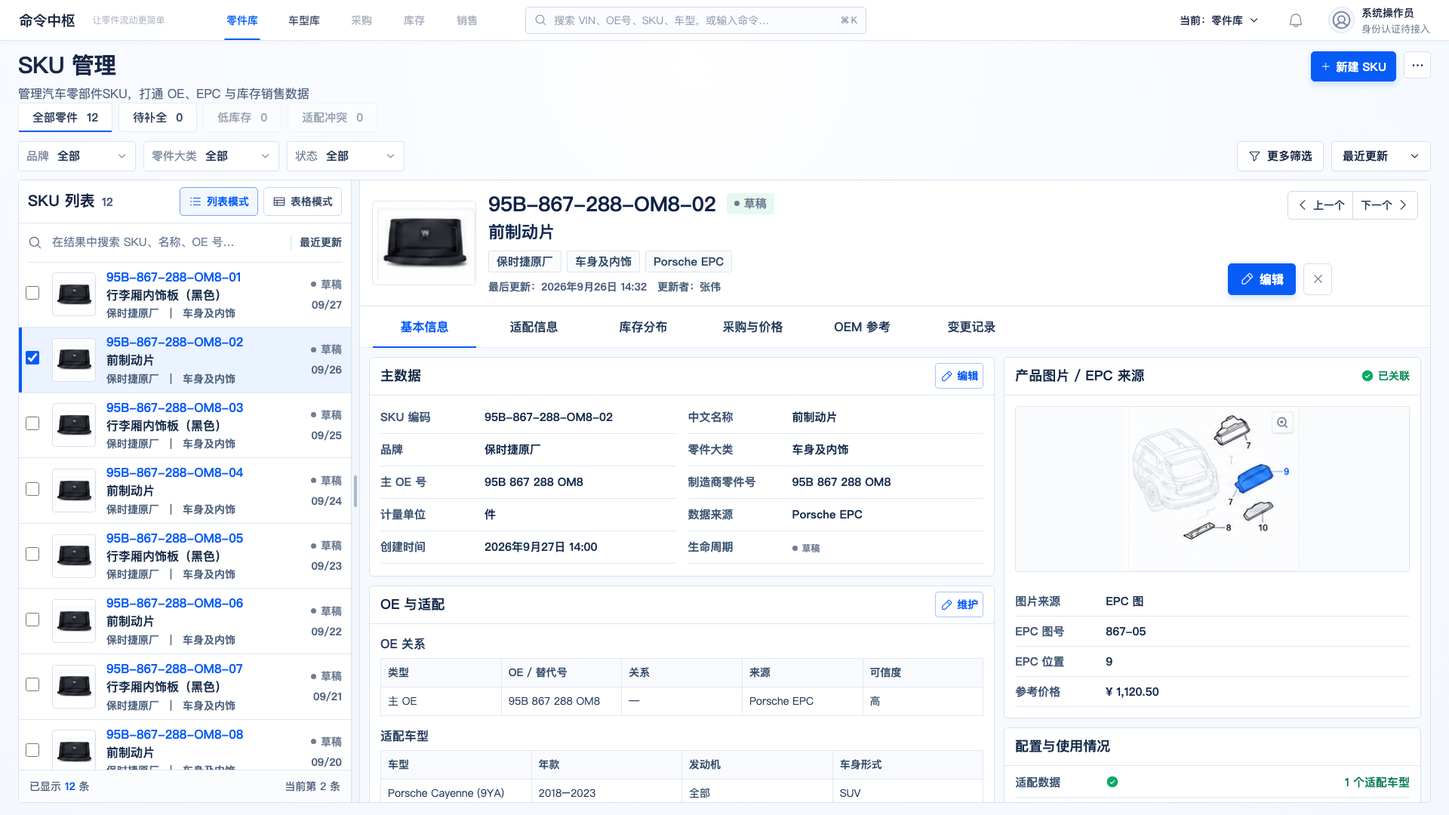
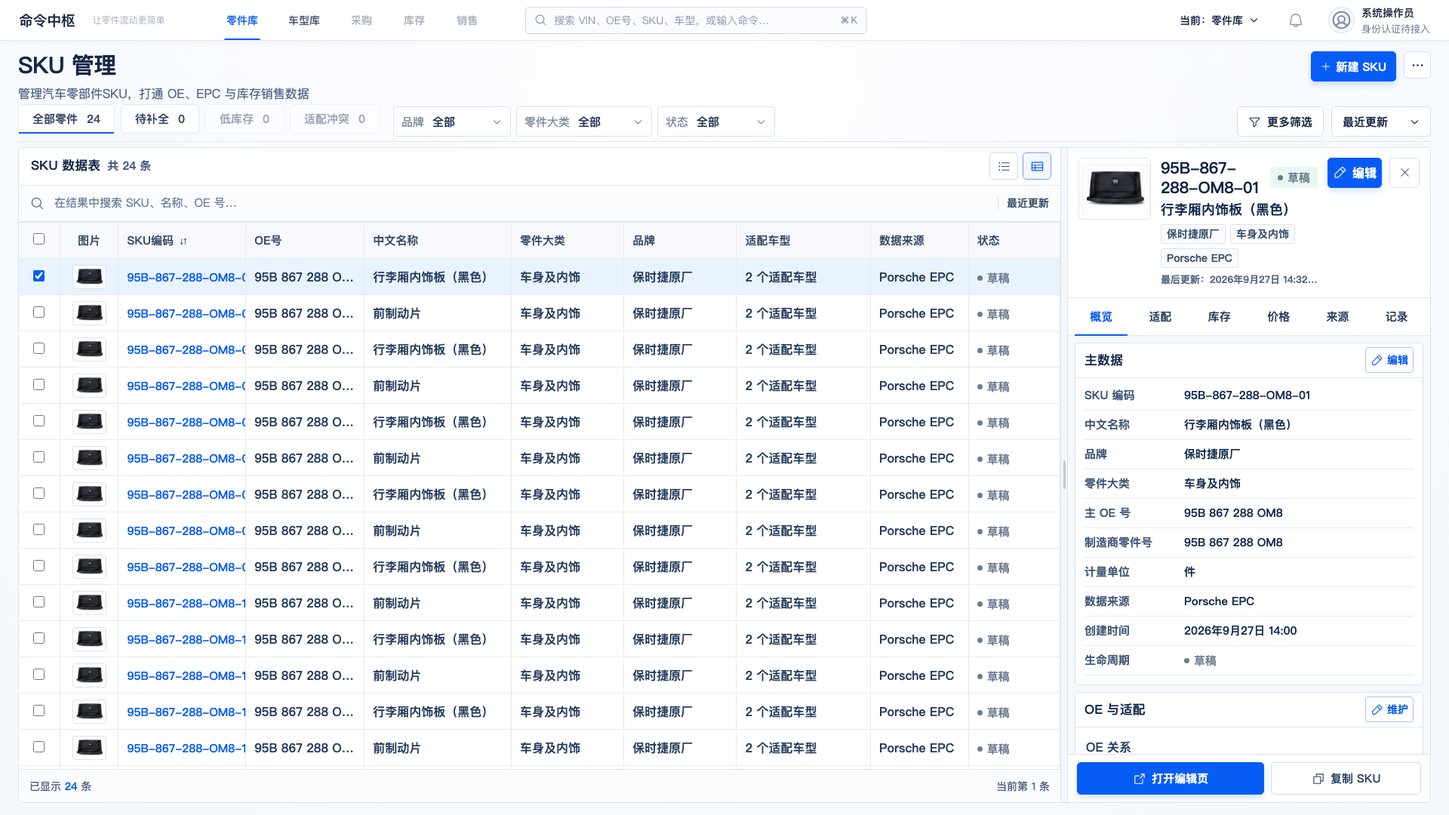
feat: refactor SKU workspace to option two

diff --git a/apps/web/src/styles.css b/apps/web/src/styles.css
@@ -226,6 +226,11 @@ button { color: inherit; }
 .sku-management-workspace .sort-button { min-width: 132px; }
 .sku-management-workspace .filter-popover label, .sku-management-workspace .filter-popover footer button, .sku-management-workspace .sort-popover button { font-size: 14px; }
 .sku-management-workspace .sort-popover button { height: 38px; }
+.sku-filter-strip { min-height: 52px; flex: 0 0 auto; display: grid; grid-template-columns: auto minmax(0, 1fr); align-items: center; gap: 18px; border-bottom: 1px solid #dfe7f1; }
+.sku-filter-strip .summary-tabs { border-bottom: 0; }
+.sku-filter-strip .filters-row { min-width: 0; height: 48px; margin: 0; }
+.sku-filter-strip .filters-left { gap: 7px; }
+.sku-filter-strip .filters-right { margin-left: auto; }
 .app-shell:has(.sku-management-workspace) .global-search > span:nth-child(2), .app-shell:has(.sku-management-workspace) .current-space { font-size: 14px; }
 .app-shell:has(.sku-management-workspace) .user-profile small { color: #64738c; font-size: 13px; }
 
@@ -335,6 +340,73 @@ button { color: inherit; }
 .sku-browser-workspace.table-view .sku-table thead { position: sticky; top: 0; z-index: 2; }
 .sku-browser-workspace.table-view .sku-table thead th, .sku-browser-workspace.table-view .sku-table .sku-col .row-link, .sku-browser-workspace.table-view .status-badge { font-size: 14px; }
 
+/* Option 2: table-first workspace with a persistent right inspector. */
+.sku-browser-workspace.table-view { grid-template-columns: minmax(0, 1fr) 10px 480px; }
+.sku-browser-workspace.table-view.detail-collapsed { grid-template-columns: minmax(0, 1fr) 52px; }
+.sku-browser-workspace.table-view .sku-master-pane { grid-template-rows: 50px 48px minmax(0, 1fr) 44px; }
+.sku-browser-workspace.table-view .sku-master-toolbar { min-height: 50px; padding: 6px 12px 6px 16px; }
+.sku-browser-workspace.table-view .sku-master-title h2 { font-size: 17px; }
+.sku-browser-workspace.table-view .sku-master-title span { font-size: 15px; }
+.sku-browser-workspace.table-view .sku-view-switch { gap: 6px; }
+.sku-browser-workspace.table-view .sku-view-switch button { width: 38px; height: 36px; padding: 0; justify-content: center; }
+.sku-browser-workspace.table-view .sku-result-search { height: 48px; margin: 0; padding: 0 15px; background: #fbfcfe; }
+.sku-browser-workspace.table-view .sku-master-scroll { border-top: 1px solid #dfe7f1; }
+.sku-browser-workspace.table-view .sku-master-pane .sku-table-shell { min-width: 1240px; min-height: 100%; height: auto; }
+.sku-browser-workspace.table-view .sku-table { min-width: 1240px; color: #263c5c; font-size: 15px; }
+.sku-browser-workspace.table-view .sku-table th,
+.sku-browser-workspace.table-view .sku-table td { height: 48px; padding-right: 11px; padding-left: 11px; }
+.sku-browser-workspace.table-view .sku-table thead th,
+.sku-browser-workspace.table-view .sku-table .sku-col .row-link,
+.sku-browser-workspace.table-view .status-badge { font-size: 15px; }
+.sku-browser-workspace.table-view .sku-table th { color: #334965; background: #f7f9fc; font-weight: 700; }
+.sku-browser-workspace.table-view .sku-table td { font-size: 16px; font-weight: 540; }
+.sku-browser-workspace.table-view .sku-table .stock-col,
+.sku-browser-workspace.table-view .sku-table .price-col,
+.sku-browser-workspace.table-view .sku-table .action-col { display: none; }
+.sku-browser-workspace.table-view .sku-table .check-col { width: 50px; }
+.sku-browser-workspace.table-view .sku-table .image-col { width: 72px; }
+.sku-browser-workspace.table-view .sku-table .sku-col { width: 156px; }
+.sku-browser-workspace.table-view .sku-table .oe-col { width: 145px; }
+.sku-browser-workspace.table-view .sku-table .name-col { width: 180px; }
+.sku-browser-workspace.table-view .sku-table .category-col { width: 138px; }
+.sku-browser-workspace.table-view .sku-table .brand-col { width: 138px; }
+.sku-browser-workspace.table-view .sku-table .vehicle-col { width: 164px; }
+.sku-browser-workspace.table-view .sku-table .source-col { width: 120px; }
+.sku-browser-workspace.table-view .sku-table .status-col { width: 112px; }
+.sku-browser-workspace.table-view .sku-pane-resizer { width: 10px; cursor: default; }
+.sku-browser-workspace.table-view .sku-pane-resizer span { width: 3px; height: 38px; background: #c0cad8; }
+
+.sku-browser-workspace.table-view .sku-detail-workspace { grid-template-rows: auto 50px minmax(0, 1fr) 64px; background: #f5f8fc; }
+.sku-browser-workspace.table-view .sku-detail-identity { min-height: 130px; padding: 13px 14px; grid-template-columns: 96px minmax(0, 1fr) 122px; gap: 13px; align-items: start; }
+.sku-browser-workspace.table-view .sku-detail-identity .part-preview { width: 96px; height: 82px; }
+.sku-browser-workspace.table-view .sku-detail-identity .part-title h2 { font-size: 21px; }
+.sku-browser-workspace.table-view .sku-detail-identity .part-title p { margin: 4px 0 7px; font-size: 18px; }
+.sku-browser-workspace.table-view .sku-detail-identity .chips { gap: 6px; }
+.sku-browser-workspace.table-view .sku-detail-identity .chips span { min-height: 26px; padding: 2px 7px; font-size: 14px; }
+.sku-browser-workspace.table-view .sku-detail-identity .part-title > small { margin-top: 6px; overflow: hidden; font-size: 13px; text-overflow: ellipsis; white-space: nowrap; }
+.sku-browser-workspace.table-view .sku-detail-actions { grid-template-columns: 72px 40px; align-content: start; }
+.sku-browser-workspace.table-view .sku-detail-step { display: none; }
+.sku-browser-workspace.table-view .sku-detail-actions > .primary-button { width: 72px; height: 40px; padding: 0; grid-column: 1; display: inline-flex; }
+.sku-browser-workspace.table-view .sku-detail-actions > .icon-button { width: 40px; height: 40px; }
+.sku-browser-workspace.table-view .sku-detail-workspace > .detail-tabs { height: 50px; padding: 0 5px; }
+.sku-browser-workspace.table-view .sku-detail-workspace > .detail-tabs button { min-width: 0; flex: 1; padding: 0 3px; font-size: 15px; }
+.sku-browser-workspace.table-view .sku-detail-overview { padding: 9px; grid-template-columns: 1fr; gap: 9px; }
+.sku-browser-workspace.table-view .sku-detail-main-column,
+.sku-browser-workspace.table-view .sku-detail-side-column { gap: 9px; }
+.sku-browser-workspace.table-view .sku-detail-section > header { min-height: 46px; padding: 0 12px; }
+.sku-browser-workspace.table-view .sku-detail-section > header h3 { font-size: 17px; }
+.sku-browser-workspace.table-view .sku-detail-workspace .detail-facts { padding: 4px 12px 12px; grid-template-columns: 1fr; font-size: 15px; }
+.sku-browser-workspace.table-view .sku-detail-workspace .detail-facts div { min-height: 39px; grid-template-columns: 132px minmax(0, 1fr); }
+.sku-browser-workspace.table-view .sku-source-section img,
+.sku-browser-workspace.table-view .sku-source-section .source-image-empty { height: 190px; }
+.sku-browser-workspace.table-view .sku-detail-workspace .mini-table { min-width: 620px; font-size: 15px; }
+.sku-browser-workspace.table-view .sku-detail-section { overflow-x: auto; }
+.sku-browser-workspace.table-view .sku-inspector-footer { min-height: 64px; padding: 10px 12px; display: grid; grid-template-columns: minmax(0, 1fr) minmax(132px, .8fr); gap: 9px; border-top: 1px solid #d7e1ee; background: #fff; }
+.sku-inspector-footer { display: none; }
+.sku-inspector-footer button { min-width: 0; height: 43px; padding: 0 11px; display: inline-flex; align-items: center; justify-content: center; gap: 7px; color: #2b4263; border: 1px solid #cfdbea; border-radius: 5px; background: #fff; font-size: 15px; font-weight: 650; cursor: pointer; white-space: nowrap; }
+.sku-inspector-footer .primary-button { color: #fff; border-color: var(--blue); background: var(--blue); }
+.sku-browser-workspace.table-view.detail-collapsed .reopen-detail { width: 52px; height: 100%; margin: 0; padding: 15px 0; border-width: 0 0 0 1px; border-radius: 0; writing-mode: vertical-rl; }
+
 @media (max-width: 1500px) {
   .sku-management-workspace { padding-right: 16px; padding-left: 16px; }
   .sku-browser-workspace { --sku-master-width: 390px !important; }
@@ -343,6 +415,11 @@ button { color: inherit; }
   .sku-detail-identity .part-preview { width: 112px; height: 98px; }
   .sku-detail-identity .part-title h2 { font-size: 23px; }
   .sku-detail-identity .part-title p { font-size: 19px; }
+  .sku-filter-strip { grid-template-columns: 1fr; gap: 0; }
+  .sku-filter-strip .summary-tabs { overflow-x: auto; }
+  .sku-browser-workspace.table-view { grid-template-columns: minmax(0, 1fr) 10px 420px; }
+  .sku-browser-workspace.table-view .sku-detail-identity { grid-template-columns: 82px minmax(0, 1fr) 122px; }
+  .sku-browser-workspace.table-view .sku-detail-identity .part-preview { width: 82px; height: 76px; }
 }
 
 @media (min-width: 1800px) and (min-height: 1000px) {

diff --git a/apps/web/src/App.jsx b/apps/web/src/App.jsx
@@ -54,7 +54,7 @@ export function App() {
   const [sortMode, setSortMode] = useState('最近更新')
   const [detailTab, setDetailTab] = useState('基本信息')
   const [resultQuery, setResultQuery] = useState('')
-  const [resultView, setResultView] = useState('list')
+  const [resultView, setResultView] = useState('table')
   const [detailVisible, setDetailVisible] = useState(true)
   const [masterWidth, setMasterWidth] = useState(440)
   const resizeState = useRef(null)
@@ -218,11 +218,9 @@ export function App() {
           <div className="page-actions"><button className="primary-button" onClick={() => window.location.assign(assetPath('skus/new'))} type="button"><Plus size={18} /> 新建 SKU</button><button className="more-button" aria-label="更多操作" aria-expanded={actionMenuOpen} onClick={() => setActionMenuOpen((current) => !current)} type="button"><DotsThree size={21} weight="bold" /></button>{actionMenuOpen ? <><button className="page-action-scrim" aria-label="关闭更多操作" onClick={() => setActionMenuOpen(false)} type="button" /><div className="page-action-menu" role="menu"><button disabled={dictionariesLoading} onClick={() => window.location.assign(assetPath('dictionaries'))} role="menuitem" type="button"><GearSix size={17} /><span><b>字典管理</b><small>集中维护 SKU 与适配业务字典</small></span></button></div></> : null}</div>
         </section>
 
-        <div className="summary-tabs" role="tablist">
+        <div className="sku-filter-strip"><div className="summary-tabs" role="tablist">
           {summaryTabs.map(({ label, count, disabled }) => <button aria-disabled={disabled || undefined} className={summaryTab === label ? 'active' : ''} disabled={disabled} key={label} onClick={() => setSummaryTab(label)} role="tab" title={disabled ? `${label}需要相应业务模块接入后开放` : undefined} type="button">{label} <strong>{count}</strong></button>)}
-        </div>
-
-        <div className="filters-row">
+        </div><div className="filters-row">
           <div className="filters-left">
             <DictionarySelect dictionaryCode="sku_brand" dictionaries={dictionaries} fallbackLabel="品牌" value={brand} onChange={setBrand} disabled={dictionariesLoading} />
             <DictionarySelect dictionaryCode="part_category" dictionaries={dictionaries} fallbackLabel="零件大类" value={category} onChange={setCategory} disabled={dictionariesLoading} />
@@ -235,13 +233,13 @@ export function App() {
             {moreFiltersOpen ? <div className="filter-popover" role="dialog" aria-label="更多筛选"><label><span>数据来源</span><select aria-label="数据来源筛选" value={dataSource} onChange={(event) => setDataSource(event.target.value)}><option value={ALL_DICTIONARY_VALUE}>全部来源</option>{dataSources.map((item) => <option key={item} value={item}>{item}</option>)}</select></label><label><span>适配车型</span><select aria-label="适配车型筛选" value={fitmentFilter} onChange={(event) => setFitmentFilter(event.target.value)}>{['全部', '已配置', '未配置'].map((item) => <option key={item}>{item}</option>)}</select></label><footer><button onClick={() => { setDataSource(ALL_DICTIONARY_VALUE); setFitmentFilter('全部') }} type="button">清除附加筛选</button><button onClick={() => setMoreFiltersOpen(false)} type="button">完成</button></footer></div> : null}
             {sortMenuOpen ? <div className="sort-popover" role="menu" aria-label="排序方式">{['最近更新', 'SKU 编码', '中文名称', '状态'].map((item) => <button aria-checked={sortMode === item} className={sortMode === item ? 'active' : ''} key={item} onClick={() => { setSortMode(item); setSortMenuOpen(false) }} role="menuitemradio" type="button">{item}</button>)}</div> : null}
           </div>
-        </div>
+        </div></div>
 
         {recordsLoading ? <div className="sku-data-state"><span className="data-spinner" />正在读取 SKU 数据…</div> : null}
         {!recordsLoading && recordsError ? <div className="sku-data-state error"><Warning size={23} weight="fill" /><b>无法读取 SKU 数据</b><span>{recordsError}</span><button className="secondary-button" onClick={() => window.location.reload()} type="button">重新加载</button></div> : null}
-        {!recordsLoading && !recordsError && filteredRows.length ? <div className={`sku-browser-workspace ${resultView === 'table' ? 'table-view' : 'list-view'}${detailVisible && selectedRecord ? '' : ' detail-collapsed'}`} style={{ '--sku-master-width': resultView === 'table' ? 'min(1080px, 62vw)' : `${masterWidth}px` }}>
+        {!recordsLoading && !recordsError && filteredRows.length ? <div className={`sku-browser-workspace ${resultView === 'table' ? 'table-view' : 'list-view'}${detailVisible && selectedRecord ? '' : ' detail-collapsed'}`} style={{ '--sku-master-width': `${masterWidth}px` }}>
           <section className="sku-master-pane" aria-label="SKU 结果">
-            <header className="sku-master-toolbar"><div className="sku-master-title"><h2>SKU 列表</h2><span>{visibleRows.length.toLocaleString('zh-CN')}</span></div><div className="sku-view-switch" role="group" aria-label="SKU 展示模式"><button aria-pressed={resultView === 'list'} className={resultView === 'list' ? 'active' : ''} onClick={() => setResultView('list')} type="button"><ListBullets size={18} />列表模式</button><button aria-pressed={resultView === 'table'} className={resultView === 'table' ? 'active' : ''} onClick={() => setResultView('table')} type="button"><TableIcon size={18} />表格模式</button></div></header>
+            <header className="sku-master-toolbar"><div className="sku-master-title"><h2>{resultView === 'table' ? 'SKU 数据表' : 'SKU 列表'}</h2><span>共 {visibleRows.length.toLocaleString('zh-CN')} 条</span></div><div className="sku-view-switch" role="group" aria-label="SKU 展示模式"><button aria-label="列表模式" aria-pressed={resultView === 'list'} className={resultView === 'list' ? 'active' : ''} onClick={() => setResultView('list')} title="列表模式" type="button"><ListBullets size={19} /></button><button aria-label="表格模式" aria-pressed={resultView === 'table'} className={resultView === 'table' ? 'active' : ''} onClick={() => setResultView('table')} title="表格模式" type="button"><TableIcon size={19} /></button></div></header>
             <div className="sku-result-search"><MagnifyingGlass size={19} /><input aria-label="在 SKU 结果中搜索" onChange={(event) => setResultQuery(event.target.value)} placeholder="在结果中搜索 SKU、名称、OE 号…" value={resultQuery} /><span>{sortMode}</span></div>
             <div className="sku-master-scroll">{visibleRows.length ? resultView === 'list' ? <SkuMasterList rows={visibleRows} selectedId={selectedId} onSelect={selectSku} /> : <SkuTable rows={visibleRows} selectedId={selectedId} onSelect={selectSku} onOpen={(id) => window.location.assign(assetPath(`skus/${id}/edit`))} /> : <div className="sku-master-empty"><Package size={32} /><b>结果中没有匹配的 SKU</b><button onClick={() => setResultQuery('')} type="button">清除搜索</button></div>}</div>
             <footer className="sku-master-footer"><span>已显示 <b>{visibleRows.length}</b> 条</span><span>{selectedIndex >= 0 ? `当前第 ${selectedIndex + 1} 条` : '未选择'}</span></footer>

diff --git a/apps/web/src/components/DetailPanels.jsx b/apps/web/src/components/DetailPanels.jsx
@@ -1,8 +1,9 @@
-import { CaretLeft, CaretRight, CheckCircle, Database, PencilSimple } from '@phosphor-icons/react'
+import { ArrowSquareOut, CaretLeft, CaretRight, CheckCircle, Copy, Database, PencilSimple } from '@phosphor-icons/react'
 import { CloseButton, MiniTable, PartThumbnail, StatusBadge } from './Common'
 import { dictionaryItemLabel } from '../services/dictionaryService'
 
 const detailTabs = ['基本信息', '适配信息', '库存分布', '采购与价格', 'OEM 参考', '变更记录']
+const detailTabLabels = { '基本信息': '概览', '适配信息': '适配', '库存分布': '库存', '采购与价格': '价格', 'OEM 参考': '来源', '变更记录': '记录' }
 
 function formatDate(value) {
   if (!value) return '—'
@@ -45,7 +46,7 @@ export function DetailPanels({ item, dictionaries, activeTab, onTabChange, onClo
       <div className="part-title"><div className="part-title-line"><h2>{item.skuCode}</h2><StatusBadge status={item.lifecycleStatus} /></div><p>{item.chineseName}</p><div className="chips"><span>{brandLabel}</span><span>{categoryLabel}</span><span>{item.dataSource || '—'}</span></div><small>最后更新：{formatDate(item.updatedAt)}　更新者：{item.updatedBy || '—'}</small></div>
       <div className="sku-detail-actions"><div className="sku-detail-step"><button aria-label="上一个 SKU" disabled={!hasPrevious} onClick={onPrevious} type="button"><CaretLeft size={19} />上一个</button><button aria-label="下一个 SKU" disabled={!hasNext} onClick={onNext} type="button">下一个<CaretRight size={19} /></button></div><button className="primary-button" onClick={onEdit} type="button"><PencilSimple size={19} />编辑</button><CloseButton onClick={onClose} /></div>
     </header>
-    <div className="detail-tabs" role="tablist">{detailTabs.map((tab) => <button aria-selected={activeTab === tab} className={activeTab === tab ? 'active' : ''} key={tab} onClick={() => onTabChange(tab)} role="tab" type="button">{tab}</button>)}</div>
+    <div className="detail-tabs" role="tablist">{detailTabs.map((tab) => <button aria-label={tab} aria-selected={activeTab === tab} className={activeTab === tab ? 'active' : ''} key={tab} onClick={() => onTabChange(tab)} role="tab" type="button">{detailTabLabels[tab]}</button>)}</div>
     <div className="sku-detail-scroll">{showOverview ? <div className="sku-detail-overview" role="tabpanel">
       <div className="sku-detail-main-column">
         <section className="sku-detail-section"><header><h3>主数据</h3><button onClick={onEdit} type="button"><PencilSimple size={17} />编辑</button></header><dl className="detail-facts"><div><dt>SKU 编码</dt><dd>{item.skuCode}</dd></div><div><dt>中文名称</dt><dd>{item.chineseName}</dd></div><div><dt>品牌</dt><dd>{brandLabel}</dd></div><div><dt>零件大类</dt><dd>{categoryLabel}</dd></div><div><dt>主 OE 号</dt><dd>{item.primaryOe || '—'}</dd></div><div><dt>制造商零件号</dt><dd>{item.manufacturerPartNumber || '—'}</dd></div><div><dt>计量单位</dt><dd>{unitLabel}</dd></div><div><dt>数据来源</dt><dd>{item.dataSource || '—'}</dd></div><div><dt>创建时间</dt><dd>{formatDate(item.createdAt)}</dd></div><div><dt>生命周期</dt><dd><StatusBadge status={item.lifecycleStatus} /></dd></div></dl></section>
@@ -56,5 +57,6 @@ export function DetailPanels({ item, dictionaries, activeTab, onTabChange, onClo
         <section className="sku-detail-section"><header><h3>配置与使用情况</h3></header><dl className="sku-readiness"><ReadinessRow label="适配数据" ready={Boolean(item.fitments?.length)} value={item.fitments?.length ? `${item.fitments.length} 个适配车型` : '待维护'} /><ReadinessRow label="商品图片" ready={Boolean(item.imageUrl)} value={item.imageUrl ? '已上传' : '待上传'} /><ReadinessRow label="数据来源" ready={Boolean(item.dataSource)} value={item.dataSource || '待维护'} /><ReadinessRow label="OEM 参考" ready={Boolean(item.sourceEvidence)} value={item.sourceEvidence ? '已关联' : '未关联'} /></dl></section>
       </aside>
     </div> : <TabContent activeTab={activeTab} item={item} />}</div>
+    <footer className="sku-inspector-footer"><button className="primary-button" onClick={onEdit} type="button"><ArrowSquareOut size={18} />打开编辑页</button><button onClick={() => { void navigator.clipboard?.writeText(item.skuCode).catch(() => {}) }} type="button"><Copy size={18} />复制 SKU</button></footer>
   </section>
 }

diff --git a/apps/web/tests/dashboard.spec.js b/apps/web/tests/dashboard.spec.js
@@ -195,15 +195,15 @@ test('loads persisted SKU data and captures the default state', async ({ page })
   await page.screenshot({ path: 'qa-artifacts/implementation-default.png', fullPage: false })
 })
 
-test('keeps a readable SKU list and detail workspace visible together at 1920 by 1080', async ({ page }) => {
+test('keeps a readable SKU table and persistent inspector visible together at 1920 by 1080', async ({ page }) => {
   await page.setViewportSize({ width: 1920, height: 1080 })
   const seed = structuredClone(page.__apiRecords[0])
-  page.__apiRecords.splice(0, page.__apiRecords.length, ...Array.from({ length: 12 }, (_, index) => ({
+  page.__apiRecords.splice(0, page.__apiRecords.length, ...Array.from({ length: 24 }, (_, index) => ({
     ...structuredClone(seed),
     id: `sku-layout-${index + 1}`,
     skuCode: `${seed.skuCode}-${String(index + 1).padStart(2, '0')}`,
     chineseName: index % 2 === 0 ? '行李厢内饰板（黑色）' : '前制动片',
-    updatedAt: `2026-09-${String(27 - index).padStart(2, '0')}T06:32:00.000Z`,
+    updatedAt: `2026-09-${String(Math.max(1, 27 - index)).padStart(2, '0')}T06:32:00.000Z`,
   })))
   await page.reload()
 
@@ -211,13 +211,15 @@ test('keeps a readable SKU list and detail workspace visible together at 1920 by
   const detailPane = page.locator('.sku-detail-workspace')
   await expect(masterPane).toBeVisible()
   await expect(detailPane).toBeVisible()
-  await expect(masterPane).toContainText('12')
+  await expect(page.getByRole('button', { name: '表格模式' })).toHaveAttribute('aria-pressed', 'true')
+  await expect(page.getByRole('columnheader', { name: /SKU编码/ })).toBeVisible()
+  await expect(masterPane).toContainText('24')
   await expect(detailPane.getByRole('heading', { level: 2 })).toContainText('95B-867-288-OM8-01')
 
   const metrics = await page.evaluate(() => {
     const master = document.querySelector('.sku-master-scroll')
     const detail = document.querySelector('.sku-detail-scroll')
-    const rowText = document.querySelector('.sku-master-primary strong')
+    const rowText = document.querySelector('.sku-table tbody .sku-col')
     const detailText = document.querySelector('.sku-detail-workspace')
     return {
       documentOverflow: document.documentElement.scrollHeight - window.innerHeight,
@@ -233,14 +235,18 @@ test('keeps a readable SKU list and detail workspace visible together at 1920 by
   expect(metrics.rowFontSize).toBeGreaterThanOrEqual(16)
   expect(metrics.detailFontSize).toBeGreaterThanOrEqual(15)
 
-  await page.getByRole('button', { name: '表格模式' }).click()
-  await expect(page.getByRole('columnheader', { name: /SKU编码/ })).toBeVisible()
+  await page.screenshot({ path: 'qa-artifacts/implementation-sku-master-detail-1920.png', fullPage: false })
+
+  await detailPane.getByRole('button', { name: '关闭' }).click()
+  await expect(page.getByRole('button', { name: '显示当前 SKU 详情' })).toBeVisible()
+  await page.getByRole('button', { name: '显示当前 SKU 详情' }).click()
+  await expect(detailPane).toBeVisible()
+
   await page.getByRole('button', { name: '列表模式' }).click()
   await page.getByRole('textbox', { name: '在 SKU 结果中搜索' }).fill('前制动片')
-  await expect(page.getByRole('table', { name: 'SKU 结果列表' }).getByRole('row')).toHaveCount(6)
+  await expect(page.getByRole('table', { name: 'SKU 结果列表' }).getByRole('row')).toHaveCount(12)
   await page.getByRole('textbox', { name: '在 SKU 结果中搜索' }).fill('')
 
-  await page.screenshot({ path: 'qa-artifacts/implementation-sku-master-detail-1920.png', fullPage: false })
 })
 
 test('shows honest empty states instead of demo defaults', async ({ page }) => {

diff --git a/design-qa.md b/design-qa.md
@@ -1,36 +1,36 @@
-# SKU 管理主从工作区设计验收
+# SKU 管理方案 2 设计验收
 
 ## 验收对象
 
-- 设计目标：`/Users/wenshihuang/.codex/generated_images/01a0de39-9245-79d2-a256-5f222224b987/exec-077ef339-2f74-4782-87fa-a7702fa1aeab.png`
+- 设计目标：`/Users/wenshihuang/.codex/generated_images/01a0de39-9245-79d2-a256-5f222224b987/exec-16f4ca0b-2167-462f-aa44-4a00c58fece2.png`
 - 实现截图：`apps/web/qa-artifacts/implementation-sku-master-detail-1920.png`
-- 同屏对照：`apps/web/qa-artifacts/sku-master-detail-design-comparison.png`
+- 同屏对照：`apps/web/qa-artifacts/sku-option-two-design-comparison.png`
 - 验收视口：1920 × 1080，设备像素比 1
-- 验收状态：列表模式、基本信息、第 2 条 SKU 选中
+- 验收状态：表格模式、右侧检查器展开、概览标签、第 1 条 SKU 选中
 
 ## 核心需求核对
 
-- [x] SKU 列表位于左侧，详情工作区持续显示在右侧，多 SKU 不再把详情压到页面底部。
-- [x] 左侧列表与右侧详情各自滚动，文档本身在 1920 × 1080 下没有纵向溢出。
-- [x] 支持列表 / 表格视图切换、结果内搜索、上一个 / 下一个 SKU 和键盘调整分栏宽度。
-- [x] 正文与核心数据保持 15–16px 及以上，标题 18–27px，使用明确字重和高对比色；未使用模糊、低对比度的微小文字。
-- [x] 品牌、零件大类、状态、OE、适配及来源信息继续使用现有真实字段和字典映射，不制造库存或价格数据。
-- [x] 选中态、空状态、数据来源、图片与 EPC 信息都保留明确反馈。
+- [x] 表格是默认且占主导的工作区，右侧约 480px SKU 检查器持续可见，多 SKU 不再把详情压到页面底部。
+- [x] 表格和检查器各自滚动；检查器可收起并从右侧窄入口恢复，不丢失当前 SKU。
+- [x] 表头固定，选中行高亮；筛选、排序、结果内搜索、列表备用视图、详情标签和编辑入口均保留。
+- [x] 数据行正文为 16px，检查器正文为 15–16px，并使用深色中粗字重；没有模糊字体、透光文字或浅灰微小字。
+- [x] 品牌、零件大类、状态、计量单位继续使用可维护字典的显示名称；没有把编码当名称显示。
+- [x] 图片、OE、适配、来源、库存和价格等已有状态继续来自真实字段，未制造库存或价格数据。
 
 ## 浏览器验证
 
-- 1920 × 1080：文档纵向溢出 0px；左侧列表和右侧详情均存在独立滚动区域。
-- 字号：SKU 编码 16px；详情正文 15px；可见文本审查未发现低于 15px 的叶子文本。
-- 结果内搜索：12 条数据可过滤为 2 条并恢复。
-- 分栏键盘操作：宽度可由 440px 调整为 464px。
-- 列表 / 表格视图切换、详情标签切换、SKU 选择均正常。
-- 浏览器控制台错误：0。
+- 1920 × 1080：文档纵向溢出 0px；24 条 SKU 数据时表格和检查器均为独立滚动区域。
+- 默认模式：表格按钮 `aria-pressed=true`，SKU 列表不会先回到窄卡片模式。
+- 字号：表格数据行 16px；检查器正文 16px；标签与按钮 15px 及以上。
+- 交互：表格 / 列表切换、结果搜索、SKU 选择、六个详情标签、关闭 / 恢复检查器和打开编辑页均正常。
+- 浏览器控制台错误与警告：0。
 
 ## 对照迭代记录
 
-1. 首轮实现发现 1920 × 1080 下沿用了全局 `zoom: 1.142857`，导致文档额外产生 154px 纵向溢出，详情底部仍需滚动页面才能完整看到。
-2. 将缩放对 SKU 主从工作区定向恢复为 1，并把滚动职责下沉到列表和详情内部；再次测量后文档溢出为 0px。
-3. 同屏比较设计目标与实现，主从结构、持续可见详情、工具区、信息层级和高对比排版一致；实现保留了系统现有数据语义与交互能力。
+1. 从方案 3 的窄列表 + 大详情工作区切回方案 2 的大表格 + 右侧检查器，并将表格设为默认视图。
+2. 首轮发现表格外壳固定为 `height: 100%`，多行会被裁切而不产生真实滚动；改为内容高度驱动后，24 条数据可独立滚动。
+3. 将状态标签、品牌与分类筛选合并到同一横向控制带，减少无效纵向占用，使实现更接近方案 2 原稿。
+4. 同屏对照后保留系统现有顶部导航与真实数据语义，同时用 16px 表格正文替代原稿较小字号，满足散光阅读要求。
 
 ## 严重级别结论
 

diff --git a/apps/web/AGENTS.md b/apps/web/AGENTS.md
@@ -24,4 +24,4 @@ Build app UI in `src/`. Keep `.openai/hosting.json`, `worker/index.js`, `scripts
 - SKU images are an ordered collection of at most eight images. Preserve the first image as the backward-compatible `imageUrl` primary image while storing and editing the complete `imageUrls` collection.
 - SKU create/edit screens should use the horizontal section-tab navigation selected in the 2026-09-27 visual direction. Keep the editor single-page and combine it with a persistent EPC evidence pane for source comparison and publish checks; do not replace it with a wizard or global sidebar.
 - New vehicle creation uses the source-first template workflow selected on 2026-09-28: start from VIN lookup, EPC data, or an existing vehicle; make provenance and template differences visible; let operators exclude copied parts before creating the record. Keep editing existing vehicles in the established single-page tabbed editor.
-- The SKU management workspace uses the master-detail direction selected on 2026-09-30: keep a compact, independently scrolling SKU result list beside a persistent, independently scrolling detail workspace, with a switch back to full table mode. Optimize this screen for astigmatism readability: body text should normally be 15–16px or larger, use crisp medium/semibold weights and strong contrast, and avoid faint microcopy, blurred text effects, translucency behind text, or low-contrast gray labels.
+- The SKU management workspace uses the table-first persistent-inspector direction selected on 2026-09-30: keep the full, independently scrolling SKU table as the dominant surface beside an approximately 480px persistent detail inspector that can collapse without losing selection. A compact list remains available as a secondary view. Optimize this screen for astigmatism readability: body text should normally be 15–16px or larger, use crisp medium/semibold weights and strong contrast, and avoid faint microcopy, blurred text effects, translucency behind text, or low-contrast gray labels.
